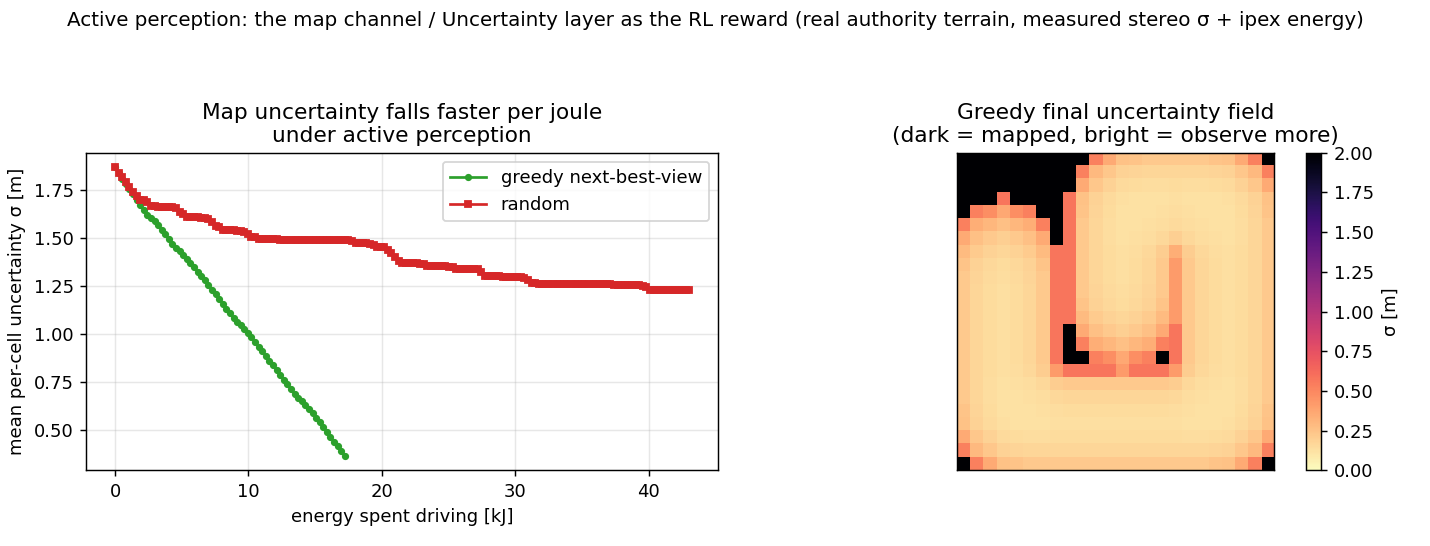
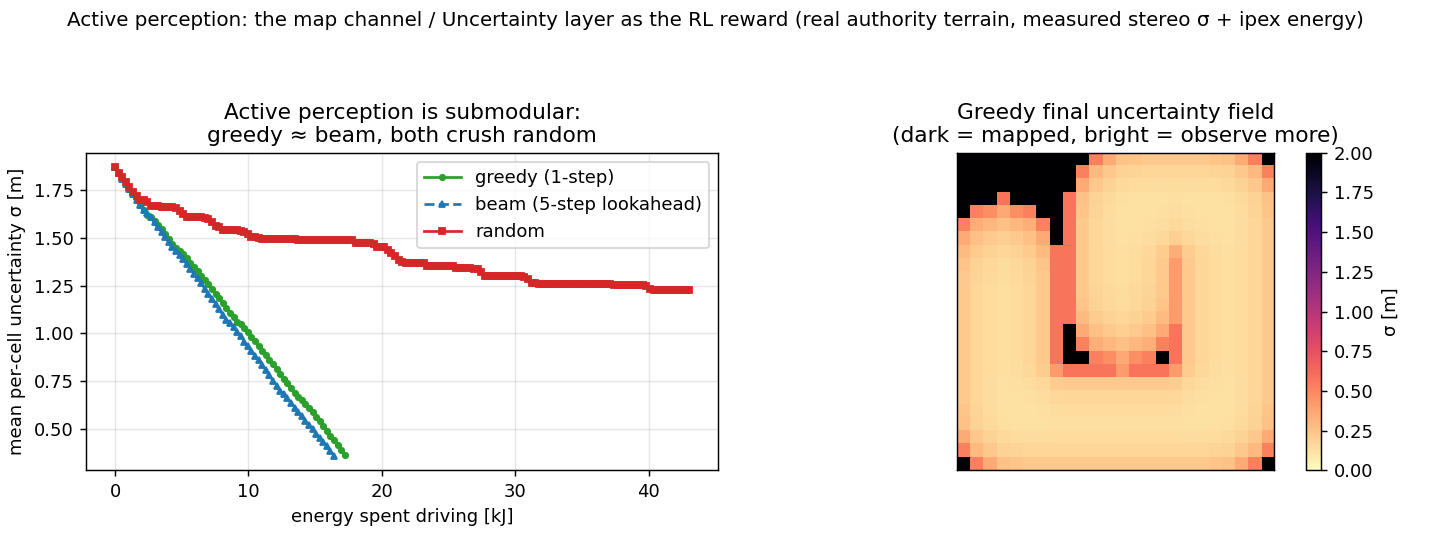
Active perception is submodular: multi-step beam ties greedy (the honest model-tool match)
Added a multi-step beam-search next-best-view planner (the exact env is its own model) and the honest
result: beam (5-step lookahead) does NOT beat greedy (1-step) -- sigma 0.36 vs 0.37, greedy even edges
RMSE. Both crush random (sigma ~0.37 vs ~1.23). Because info-gain is SUBMODULAR, greedy carries the
classic 1-1/e near-optimality guarantee and there is no multi-step routing headroom -- unlike the
scheduler, where beam beat greedy on precedence/batching. Refactored the observation fusion into a
reusable `_fuse_sigma` so the env and the beam planner share it.

So the right onboard tool for active perception is cheap greedy, and the genuinely-learned component is
NOT a multi-step planner over this computable env -- it is a model that predicts info-gain when the
observation is EXPENSIVE and uncharacterized (the real Godot render), which this env approximates with
the measured stereo model. The world model doc + the figure (greedy vs beam vs random) say so.

- terrain_authority/active_perception_env.py: `_fuse_sigma` + `beam_action`
- terrain_authority/test_active_perception_env.py: test_beam_matches_greedy_submodular (5 tests)
- scripts/make_active_perception_figure.py + validation/active_perception/greedy_vs_random.png (3 policies)
- docs/world_model.md: the submodular finding; the learned WM's real role clarified

diff --git a/terrain_authority/active_perception_env.py b/terrain_authority/active_perception_env.py
@@ -31,6 +31,16 @@ PRIOR_SIGMA_M = 2.0                            # unobserved-cell prior height un
 _MOVES = ((-1, 0), (1, 0), (0, 1), (0, -1))   # N, S, E, W
 
 
+def _fuse_sigma(sigma, pos, rr, cc, sensor_r):
+    """Range-dependent stereo fusion of one viewpoint: returns (new_sigma, kalman_gain). Pure, so the
+    env mutates its state with it AND the beam planner simulates forward on copies with it."""
+    dist = np.hypot(rr - pos[0], cc - pos[1])
+    obs_sig = OBS_SIGMA_FLOOR_M * (1.0 + (dist / sensor_r) ** 2)   # stereo Z^2 range falloff
+    var = sigma ** 2
+    k = np.where(dist <= sensor_r, var / (var + obs_sig ** 2), 0.0)
+    return np.sqrt(np.maximum(0.0, (1.0 - k) * var)), k
+
+
 class ActivePerceptionEnv(_BASE):
     """Discrete-move next-best-view mapping. action in {0..3} = move N/S/E/W one cell + observe.
     obs = [flattened sigma field, pos_row/grid, pos_col/grid, energy_frac]. reward = info gain / joule."""
@@ -61,15 +71,9 @@ class ActivePerceptionEnv(_BASE):
     def _observe(self) -> float:
         """Fuse a range-dependent stereo observation at the current pose; return summed sigma reduction."""
         before = float(self.sigma.sum())
-        r0, c0 = self.pos
-        dist = np.hypot(self._rr - r0, self._cc - c0)
-        in_view = dist <= self.sensor_r
-        obs_sig = OBS_SIGMA_FLOOR_M * (1.0 + (dist / self.sensor_r) ** 2)   # stereo Z^2 range falloff
-        var = self.sigma ** 2
-        r = obs_sig ** 2
-        k = np.where(in_view, var / (var + r), 0.0)                # Kalman gain per cell
+        new_sigma, k = _fuse_sigma(self.sigma, self.pos, self._rr, self._cc, self.sensor_r)
         self.est = self.est + k * (self.truth - self.est)         # estimate -> truth (measured w/ noise)
-        self.sigma = np.sqrt(np.maximum(0.0, (1.0 - k) * var))
+        self.sigma = new_sigma
         return before - float(self.sigma.sum())
 
     def _obs(self) -> np.ndarray:
@@ -125,3 +129,25 @@ def greedy_action(env: ActivePerceptionEnv) -> int:
         if per_j > best:
             best, best_a = per_j, a
     return best_a
+
+
+def beam_action(env: ActivePerceptionEnv, *, lookahead: int = 4, beam_width: int = 6) -> int:
+    """Multi-step next-best-view: beam-search `lookahead` viewpoints ahead (the exact env is its own
+    model), score by cumulative info-gain per joule, and return the FIRST action of the best sequence
+    (receding horizon). lookahead=1 reduces to greedy; lookahead>1 routes ahead so it stops re-covering."""
+    rr, cc, sr, grid, cm, jm = env._rr, env._cc, env.sensor_r, env.grid, env.cell_m, env.drive_j_per_m
+    beam = [(0.0, env.sigma, env.pos, None)]                      # (cum score, sigma, pos, first action)
+    for _ in range(max(1, lookahead)):
+        cand = []
+        for score, sigma, pos, first in beam:
+            ssum = float(sigma.sum())
+            for a, (dr, dc) in enumerate(_MOVES):
+                nr = min(max(pos[0] + dr, 0), grid - 1)
+                nc = min(max(pos[1] + dc, 0), grid - 1)
+                e = max((abs(nr - pos[0]) + abs(nc - pos[1])) * cm * jm, 1.0)
+                new_sigma, _ = _fuse_sigma(sigma, (nr, nc), rr, cc, sr)
+                gain = ssum - float(new_sigma.sum())
+                cand.append((score + gain / e, new_sigma, (nr, nc), a if first is None else first))
+        cand.sort(key=lambda x: -x[0])
+        beam = cand[:beam_width]
+    return beam[0][3]

diff --git a/terrain_authority/test_active_perception_env.py b/terrain_authority/test_active_perception_env.py
@@ -16,7 +16,12 @@ def _run(policy, *, seed=3, grid=20, charges=0.05, steps=120):
     rng = np.random.default_rng(seed)
     tot, info = 0.0, {}
     for _ in range(steps):
-        a = ap.greedy_action(env) if policy == "greedy" else int(rng.integers(4))
+        if policy == "greedy":
+            a = ap.greedy_action(env)
+        elif policy == "beam":
+            a = ap.beam_action(env, lookahead=5, beam_width=8)
+        else:
+            a = int(rng.integers(4))
         r = env.step(a)
         tot += r[1]
         info = r[-1]
@@ -38,6 +43,17 @@ def test_greedy_beats_random_on_mapping():
     assert g["sigma_mean"] < r["sigma_mean"]                  # greedy maps to lower uncertainty
     assert g["map_rmse_m"] < r["map_rmse_m"]                  # and lower height RMSE
     assert g_tot > r_tot                                      # and higher info-per-joule reward
+
+
+def test_beam_matches_greedy_submodular():
+    # next-best-view info-gain is SUBMODULAR -> greedy is near-optimal (the 1-1/e guarantee), so multi-step
+    # beam does NOT meaningfully beat it. The honest result: model-based search helps the scheduler (real
+    # multi-step routing headroom), not active perception (a submodular coverage problem).
+    g, _ = _run("greedy")
+    b, _ = _run("beam")
+    r, _ = _run("random")
+    assert g["sigma_mean"] < r["sigma_mean"] and b["sigma_mean"] < r["sigma_mean"]   # both crush random
+    assert abs(b["sigma_mean"] - g["sigma_mean"]) < 0.10                              # beam ~= greedy (no headroom)
 
 
 def test_energy_bounded_and_terminates():

diff --git a/scripts/make_active_perception_figure.py b/scripts/make_active_perception_figure.py
@@ -18,7 +18,8 @@ matplotlib.use("Agg")
 import matplotlib.pyplot as plt  # noqa: E402
 
 sys.path.insert(0, os.path.join(os.path.dirname(os.path.abspath(__file__)), ".."))
-from terrain_authority.active_perception_env import ActivePerceptionEnv, greedy_action  # noqa: E402
+from terrain_authority.active_perception_env import (  # noqa: E402
+    ActivePerceptionEnv, beam_action, greedy_action)
 
 
 def rollout(policy, *, seed=3, grid=24, charges=0.05, steps=160):
@@ -27,7 +28,12 @@ def rollout(policy, *, seed=3, grid=24, charges=0.05, steps=160):
     rng = np.random.default_rng(seed)
     spent, sig = [0.0], [float(env.sigma.mean())]
     for _ in range(steps):
-        a = greedy_action(env) if policy == "greedy" else int(rng.integers(4))
+        if policy == "greedy":
+            a = greedy_action(env)
+        elif policy == "beam":
+            a = beam_action(env, lookahead=5, beam_width=8)
+        else:
+            a = int(rng.integers(4))
         r = env.step(a)
         spent.append(env.energy_budget - env.energy)
         sig.append(r[-1]["sigma_mean"])
@@ -42,14 +48,16 @@ def main():
     args = ap.parse_args()
     os.makedirs(os.path.dirname(args.out) or ".", exist_ok=True)
     g_e, g_s, g_env = rollout("greedy")
+    b_e, b_s, _ = rollout("beam")
     r_e, r_s, _ = rollout("random")
 
     fig, ax = plt.subplots(1, 2, figsize=(11, 4.2))
-    ax[0].plot(g_e / 1e3, g_s, "o-", ms=3, color="C2", label="greedy next-best-view")
+    ax[0].plot(g_e / 1e3, g_s, "o-", ms=3, color="C2", label="greedy (1-step)")
+    ax[0].plot(b_e / 1e3, b_s, "^--", ms=3, color="C0", label="beam (5-step lookahead)")
     ax[0].plot(r_e / 1e3, r_s, "s-", ms=3, color="C3", label="random")
     ax[0].set_xlabel("energy spent driving [kJ]")
     ax[0].set_ylabel("mean per-cell uncertainty σ [m]")
-    ax[0].set_title("Map uncertainty falls faster per joule\nunder active perception")
+    ax[0].set_title("Active perception is submodular:\ngreedy ≈ beam, both crush random")
     ax[0].legend()
     ax[0].grid(alpha=0.3)
     im = ax[1].imshow(g_env.sigma, cmap="magma_r", vmin=0.0)

diff --git a/docs/world_model.md b/docs/world_model.md
@@ -125,12 +125,19 @@ installed package in both trees.
 The active-perception REWARD is now an env: **`Dust/ActivePerception-v0`** (`active_perception_env.py`) is
 next-best-view mapping where the agent drives to reduce per-cell uncertainty per joule -- the map channel /
 Uncertainty layer as the RL reward, grounded in the measured stereo sigma (range-dependent, Z^2 falloff)
-and the ipex drive energy, over real authority fbm terrain. A greedy next-best-view policy maps to
-sigma 0.37 vs random 1.23 for less energy (`validation/active_perception/`). This is the env the learned
-perception world model trains in.
+and the ipex drive energy, over real authority fbm terrain. Greedy and a 5-step beam both map to
+sigma 0.37 vs random 1.23 for less energy (`validation/active_perception/`).
 
-Next, in order: (1) the learned perception model (JEPA or RSSM) trained in `Dust/ActivePerception-v0` --
-the one genuinely learned component this architecture calls for -- to beat the greedy next-best-view
-baseline by predicting where observing pays off; (2) dense MVS to fill the ground-tier coverage
-(CUDA-gated today); (3) thread the per-cell Material into the Bekker `k_phi` sinkage too (cohesion/phi are
-threaded; `k_phi` sinkage still uses the density-stiffening factor, not the full per-cell material).
+**Honest finding (the model-tool match again):** multi-step beam search does NOT beat the greedy 1-step
+next-best-view -- because info-gain is **submodular**, so greedy carries the classic 1-1/e near-optimality
+guarantee and there is no multi-step routing headroom (unlike the scheduler, where beam beat greedy on
+precedence/batching). So for active perception the right onboard tool is cheap greedy, and the genuinely
+learned component is NOT a multi-step planner over this computable env -- it is a model that predicts
+info-gain when the observation is EXPENSIVE and uncharacterized (the real Godot render), which this env
+approximates with the measured stereo model. That is where a learned perception WM earns its keep.
+
+Next, in order: (1) the learned perception model that predicts info-gain over the EXPENSIVE render branch
+(so the policy can plan without rendering every candidate viewpoint) -- the one genuinely learned
+component; on the cheap characterized env greedy already wins; (2) dense MVS to fill the ground-tier
+coverage (CUDA-gated today); (3) thread the per-cell Material into the Bekker `k_phi` sinkage too
+(cohesion/phi are threaded; `k_phi` sinkage still uses the density-stiffening factor).